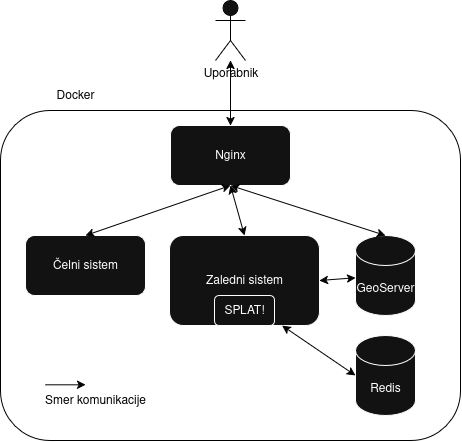
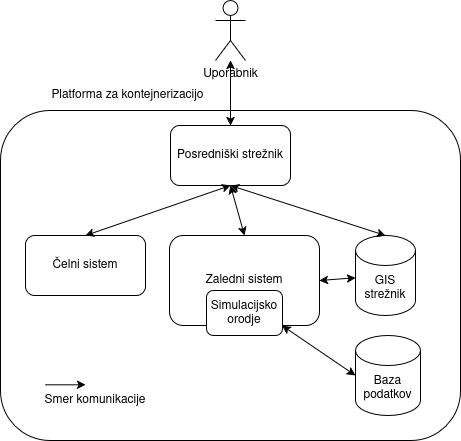
Fixed comments

diff --git a/ostali-deli/implementacija.tex b/ostali-deli/implementacija.tex
@@ -1,7 +1,9 @@
 \chapter{Implementacija}
-Po pregledu sorodnih del sem se odločil, da aplikacije ne bom razvijal iz nič, temveč bom izvedel vejitev (angl.~\textit{fork}) obstoječega projekta \texttt{Meshtastic Site Planner}~\cite{meshtasticSitePlanner}, ki omogoča simulacijo širjenja radijskega signala. Projekt je licenciran pod licenco GPL~3~\cite{gpl3}, ki dovoljuje uporabo, spreminjanje in distribucijo programske opreme, pod pogojem, da so tudi izpeljana dela objavljena pod isto licenco. Tak licenčni model zagotavlja odprtost izvorne kode ter omogoča, da so nadaljnje izboljšave dostopne širši skupnosti, ne le posameznemu razvijalcu.
+Implementacija rešitve je razdeljena na dva glavna sklopa: zaledni del in čelni del aplikacije. Zaledni del skrbi za izvajanje simulacij radijskega širjenja, obdelavo višinskih podatkov, upravljanje opravil ter komunikacijo s simulacijskim orodjem SPLAT!. Čelni del predstavlja uporabniški vmesnik, ki omogoča vnos parametrov, upravljanje simulacij in vizualizacijo rezultatov na interaktivnem zemljevidu.
 
-Namesto razvoja osnovne infrastrukture aplikacije sem se osredotočil na razširitve in nadgradnje, kot so integracija simulacijskega orodja SPLAT!, optimizacija prikaza rezultatov na interaktivnem zemljevidu ter dodajanje funkcionalnosti za iskanje optimalnih lokacij oddajnikov. S tem sem povečal učinkovitost razvoja in hkrati prispeval k obstoječemu odprtokodnemu ekosistemu.
+Jedro implementacije temelji na razširitvi obstoječe odprtokodne rešitve \texttt{Meshtastic Site Planner}~\cite{meshtasticSitePlanner}. Orodje omogoča simulacijo radijske pokritosti na podlagi orodja SPLAT! \cite{splatTool}, vendar ne podpira analize vidne linije ter iskanja optimalnih lokacij oddajnikov. Namesto razvoja celotnega sistema iz nič sem zato izvedel vejitev (angl.~\textit{fork}) projekta in ga nadgradil z dodatnimi funkcionalnostmi ter izboljšano arhitekturo.
+
+Projekt \texttt{Meshtastic Site Planner} je licenciran pod licenco GPL~3~\cite{gpl3}, ki dovoljuje uporabo, spreminjanje in distribucijo programske opreme, ob pogoju, da so tudi izpeljana dela objavljena pod isto licenco. Tak licenčni model zagotavlja odprtost izvorne kode ter omogoča, da so vse nadaljnje izboljšave dostopne širši skupnosti. Izbrani pristop je omogočil hitrejši razvoj ter osredotočenost na razširitve sistema, kot so izboljšan prikaz rezultatov, pohitritev sistema ter dodajanje metod za iskanje optimalnih lokacij oddajnikov. Za prikaz rezultatov simulacij radijske pokritosti je v sistem vključen strežnik GeoServer, ki omogoča postopno nalaganje prostorskih podatkov prek vmesnika WMS ter s tem zmanjša obremenitev odjemalca.
 
 \section{Zaledni del}
 Zaledni del je implementiran v programskem jeziku Python~\cite{python}, pri čemer je za gradnjo spletnega vmesnika uporabljeno ogrodje FastAPI~\cite{fastapi}. Ogrodje omogoča enostavno vzpostavitev HTTP povezav ter olajša dodajanje in vzdrževanje funkcionalnosti REST API, ki so ključne za komunikacijo med čelnim in zalednim delom aplikacije.
@@ -39,73 +41,16 @@ Orodje \texttt{srtm2sdf} omogoča pretvorbo podatkov SRTM3, medtem ko \texttt{sr
 
 V začetni fazi je zaledni del aplikacije samodejno izvajal pretvorbo iz \texttt{.hgt} v \texttt{.sdf}, kar je omogočalo izvajanje simulacij kjerkoli na svetu, vendar je postopek podaljšal čas obdelave in poslabšal uporabniško izkušnjo. Za optimizacijo sem uporabil vir \texttt{viewfinderpanoramas.org}~\cite{viewfinder}, ki ponuja že pripravljene in preverjene višinske ploščice v ustreznem formatu. Ploščice za območje Evrope sem prenesel in shranil na lasten strežnik, od koder jih aplikacija po potrebi samodejno pridobi in uporabi pri izvajanju simulacij. S tem se zmanjša zakasnitev ob začetku izračuna ter izboljša odzivnost sistema pri ponavljajočih se simulacijah.
 
-\subsection{Izračun potrebnih \texttt{.sdf} ploščic za vidno linijo}
-Ker izvorna aplikacija ni podpirala preverjanja vidne linije, sem implementiral funkcijo, ki izračuna, katere ploščice (angl.~\textit{tiles}) so potrebne za izvedbo simulacije.
-Za preverjanje vidne linije (LOS) med oddajnikom $(\varphi_\mathrm{tx}, \lambda_\mathrm{tx})$ in sprejemnikom $(\varphi_\mathrm{rx}, \lambda_\mathrm{rx})$ potrebujemo zgolj tiste SRTM ploščice, ki jih seka zveznica med točkama. Namesto prenosa večjega nabora ploščic za širše območje se uporabi algoritmičen sprehod po mreži ploščic, ki v času $O(n)$ (kjer je $n$ število prečkanih ploščic) deterministično izdela seznam natančno tistih celic, ki jih daljica prečka. S tem se zmanjša količina podatkov za prenos in skrajša priprava simulacije.
+\subsection{Določanje potrebnih višinskih ploščic za simulacije}
 
-\paragraph{Diskretizacija prostora.}
-Koordinate obravnavamo v stopinjah in prostor razdelimo na celice velikosti $1^\circ \times 1^\circ$. 
-Za parametrični opis daljice med končnima točkama vzamemo $(x(t), y(t)) = (x_0, y_0) + t\,(dx, dy)$, $t \in [0,1]$, kjer $x$ predstavlja geografsko dolžino in $y$ geografsko širino, $dx = x_1 - x_0$ in $dy = y_1 - y_0$.
+Za izvajanje simulacij SPLAT! potrebuje ustrezen nabor višinskih ploščic (\texttt{.sdf}), ki pokrivajo območje analize. V izvorni aplikaciji je bil postopek določanja potrebnih ploščic že implementiran za simulacijo radijske pokritosti, pri čemer se upošteva celoten okoliš oddajnika znotraj izbranega polmera.
 
-\paragraph{DDA sprehod po mreži.}
-Uporabimo varianto algoritma DDA (Digital Differential Analyzer) oz. mrežnega sledenja žarku:
-\begin{enumerate}
-  \item Začetno celico določimo z $\lfloor x_0 \rfloor, \lfloor y_0 \rfloor$, ciljno pa z $\lfloor x_1 \rfloor, \lfloor y_1 \rfloor$.
-  \item Izračunamo korake $\,\mathrm{stepX} \in \{-1,0,1\}$ in $\,\mathrm{stepY} \in \{-1,0,1\}$ glede na predznak $dx$ in $dy$.
-  \item Določimo \emph{tDelta} vrednosti, ki povedo, kolikšen porast parametra $t$ je potreben, da prečkamo eno celično mejo po $x$ oziroma $y$:
-  \[
-    t_{\Delta x} = 
-    \begin{cases}
-      |1/dx|, & dx \neq 0\\
-      \infty, & dx = 0
-    \end{cases}
-    \qquad
-    t_{\Delta y} = 
-    \begin{cases}
-      |1/dy|, & dy \neq 0\\
-      \infty, & dy = 0
-    \end{cases}
-  \]
-  \item Inicializiramo \emph{tMax} vrednosti, tj. parametrični čas do prve vertikalne oziroma horizontalne meje celice od izhodišča:
-  \[
-    t_{\max x} = 
-    \begin{cases}
-      \dfrac{(\lfloor x_0 \rfloor + 1 - x_0)}{dx}, & dx > 0\\[6pt]
-      \dfrac{(x_0 - \lfloor x_0 \rfloor)}{-dx}, & dx < 0\\[6pt]
-      \infty, & dx = 0
-    \end{cases}
-    \quad
-    t_{\max y} = 
-    \begin{cases}
-      \dfrac{(\lfloor y_0 \rfloor + 1 - y_0)}{dy}, & dy > 0\\[6pt]
-      \dfrac{(y_0 - \lfloor y_0 \rfloor)}{-dy}, & dy < 0\\[6pt]
-      \infty, & dy = 0
-    \end{cases}
-  \]
-  \item Iterativno napredujemo v smeri manjše od $t_{\max x}$ ali $t_{\max y}$ (prečkamo naslednjo mejo celice po $x$ ali $y$), s čimer posodobimo $(\mathrm{current\_x}, \mathrm{current\_y})$ ter $t_{\max x} \leftarrow t_{\max x} + t_{\Delta x}$ ali $t_{\max y} \leftarrow t_{\max y} + t_{\Delta y}$. 
-  Postopek ponavljamo, dokler ne dosežemo ciljne celice.
-\end{enumerate}
+Na podlagi izbranega polmera in geografske lokacije oddajnika se najprej določi omejitveni pravokotnik (angl.~\textit{bounding box}), ki zajema celotno območje simulacije. Nato se iz tega območja izpelje seznam višinskih ploščic, ki jih je treba prenesti in vključiti v izračun. Tak pristop omogoča, da se obdelujejo le nujno potrebni podatki, s čimer se zmanjša količina prenesenih višin\-skih podatkov in pospeši priprava simulacije.
 
-\subsection{Izračun potrebnih ploščic za simulacijo radijske pokritosti}
-Simulacija radijske pokritosti in s tem povezan izračun potrebnih ploščic sta bila že implementirana v izvorni aplikaciji.
+Ker izvorna aplikacija ni podpirala analize vidne linije (LOS), sem obstoječi mehanizem razširil tudi za ta primer. Pri simulaciji vidne linije je območje interesa omejeno zgolj na zveznico med oddajnikom in sprejemnikom, zato je mogoče nabor potrebnih ploščic dodatno zožiti. Namesto celotnega območja okoli oddajnika se določijo le tiste ploščice, ki jih prečka povezovalna linija med obema točkama.
 
-Postopek določanja potrebnih ploščic za simulacijo radijske pokritosti je zasnovan podobno kot pri izračunu ploščic za vidno linijo v prejšnjem poglavju.
-Namesto izračuna med dvema točkama pa se v tem primeru upošteva celoten okoliš oddajnika znotraj izbranega polmera $r$.
+S tem je bil obstoječi sistem za določanje višinskih ploščic ponovno uporabljen in prilagojen tudi za simulacijo vidne linije, kar omogoča učinkovitejšo rabo podatkov ter krajši čas priprave izračuna, zlasti pri točkovnih analizah na večjih razdaljah.
 
-\paragraph{Določitev območja pokritosti.}
-Najprej se glede na izbrani polmer in geografsko širino oddajnika izračuna kotni odmik $\Delta_{\deg}$:
-\[
-\Delta_{\deg} = \frac{r}{R_\oplus}\cdot \frac{180}{\pi},
-\]
-kjer je $R_\oplus = 6\,378\,137$~m približen polmer Zemlje.  
-Na tej osnovi se določi omejitveni pravokotnik (angl.~\textit{bounding box}) z mejami:
-\[
-\varphi_{\min} = \varphi_0 - \Delta_{\deg}, \quad
-\varphi_{\max} = \varphi_0 + \Delta_{\deg}, \quad
-\lambda_{\min} = \lambda_0 - \frac{\Delta_{\deg}}{\cos(\varphi_0)}, \quad
-\lambda_{\max} = \lambda_0 + \frac{\Delta_{\deg}}{\cos(\varphi_0)}.
-\]
-Omejitve so podane v stopinjah in določajo minimalni ter maksimalni razpon zemljepisne širine in dolžine, ki ju mora sistem obdelati.
 
 \subsection{Lokacija oddajnika / sprejemnika}
 SPLAT! za določitev geografskih lokacij oddajnika in sprejemnika uporablja \textbf{.qth} datoteke (angl.~\textit{QTH files}), 
@@ -197,6 +142,11 @@ Za razliko od originala moja verzija aplikacije pričakuje pridobitek antene v d
 \mathrm{dBm} = \mathrm{dBi} - 2.15
 \]
 
+Konstanta 2.15~dB predstavlja razliko med izotropno referenčno anteno in dipolno referenčno anteno. 
+Pridobitek antene je v praksi pogosto podan v enotah dBi, kjer je referenca idealna izotropna antena, ki enakomerno seva v vse smeri. 
+Model Longley--Rice in s tem orodje SPLAT! pa uporabljata efektivno sevalno moč (ERP), ki je definirana glede na idealni polvalovni dipol (dBd). 
+Razmerje med obema referencama je 2.15~dB, zato je za pretvorbo iz dBi v dBd potrebno odšteti 2.15~dB.
+
 Tako izračunana ERP vrednost se zapiše v zadnjo vrstico \texttt{.lrp} datoteke.
 
 \subsection{Barvna lestvica za prikaz moči signala}
@@ -242,7 +192,7 @@ Najpogosteje uporabljeni parametri so:
   \item \texttt{-kml} – izvoz v format, združljiv z orodjem Google Earth;
   \item \texttt{-gpsav} – ohrani začasne \texttt{gnuplot} datoteke;
   \item \texttt{-metric} – uporaba metričnega sistema enot;
-  \item \texttt{-olditm} – uporaba standardnega modela ITM (Longley–Rice).
+  \item \texttt{-olditm} – uporaba standardnega modela ITM (Longley–Rice) namesto model ITWOM;
 \end{itemize}
 
 \subsubsection*{Analiza vidne linije (LOS)}
@@ -312,7 +262,7 @@ Dodal pa sem, da se pripravljen GeoTIFF nato shrani v pomnilnik in preko funkcij
 
 Čelni sistem aplikacije je zasnovan kot osrednja točka interakcije med uporabnikom in simulacijskim jedrom. Njegova glavna naloga je omogočiti enostaven vnos parametrov, pregledno upravljanje simulacij ter intuitivno vizualizacijo rezultatov na interaktivnem zemljevidu.
 
-Arhitektura čelnega sistema je v osnovi ostala podobna izvorni rešitvi, vendar je bila nadgrajena z modernejšimi tehnologijami in izboljšanimi komponentami. Za oblikovanje uporabniškega vmesnika sem namesto ogrodja Bootstrap \cite{bootstrap} uporabil ogrodje Tailwind CSS \cite{tailwindcss}, ki omogoča bolj fleksibilno in konsistentno oblikovanje ter hitrejši razvoj brez potrebe po pisanju obsežnih lastnih slogovnih datotek.
+Arhitektura čelnega sistema je v osnovi ostala podobna izvorni rešitvi \textit{Meshtastic Site Planner} \cite{meshtasticSitePlanner}, vendar je bila nadgrajena z modernejšimi tehnologijami in izboljšanimi komponentami. Za oblikovanje uporabniškega vmesnika sem namesto ogrodja Bootstrap \cite{bootstrap} uporabil ogrodje Tailwind CSS \cite{tailwindcss}, ki omogoča bolj fleksibilno in konsistentno oblikovanje ter hitrejši razvoj brez potrebe po pisanju obsežnih lastnih slogovnih datotek.
 
 Pomembna sprememba je bila tudi zamenjava knjižnice Leaflet \cite{leafletjs} z Vue MapLibre GL \cite{vueMapLibreGL}. Nova rešitev omogoča boljšo zmogljivost pri prikazu večjih količin prostorskih podatkov, boljšo podporo za delo z vektorskimi sloji ter večjo prilagodljivost pri izrisu  elementov.
 
@@ -399,7 +349,7 @@ Rezultati simulacij so prikazani v pregledni tabeli, ki vsebuje kombinacije odda
 \subsection{Iskanje optimalnega centralnega oddajnika znotraj območja}
 Tretja funkcionalnost aplikacije, ki sem jo implementiral, je \texttt{Area Center Node Simulator}, ki omogoča iskanje optimalne lokacije oddajnika znotraj uporabniško definiranega geografskega območja. Funkcionalnost je namenjena uporabnikom, ki ne želijo vnaprej določiti vseh možnih lokacij oddajnikov, temveč želijo, da aplikacija sama identificira primerne kandidatske lokacije.
 
-Uporabnik na zemljevidu določi potencialne lokacije sprejemnikov in s poligonom označi območje iskanja lokacije oddajnika. Aplikacija nato s pomočjo podatkov OpenStreetMap~\cite{openstreetmap}, pridobljenih prek vmesnika Overpass API~\cite{overpass_api}, izlušči seznam vrhov znotraj izbranega območja. Te lokacije se uporabijo kot kandidatske točke za postavitev oddajnika.
+Uporabnik na zemljevidu določi potencialne lokacije sprejemnikov in s poligonom označi območje iskanja lokacije oddajnika. Aplikacija nato s pomočjo podatkov OpenStreetMap~\cite{openstreetmap}, pridobljenih prek vmesnika Overpass API~\cite{overpass_api}, izlušči seznam vrhov znotraj izbranega območja. V podatkovnem modelu OpenStreetMap so vrhovi označeni z oznako \texttt{natural=peak}. Te lokacije se uporabijo kot kandidatske točke za postavitev oddajnika.
 
 Za vsako izmed pridobljenih lokacij se izvede simulacija širjenja radijskega signala, na podlagi katere se izračuna pričakovana jakost signala za vse izbrane sprejemnike. Rezultati so prikazani v pregledni tabeli, ki vsebuje kombinacije oddajnikov in sprejemnikov ter pripadajoče vrednosti jakosti signala.
 

diff --git a/ostali-deli/eksperimentalna-evalvacija.tex b/ostali-deli/eksperimentalna-evalvacija.tex
@@ -1,5 +1,34 @@
 \chapter{Eksperimentalna evalvacija}
-Z eksperimentalno evalvacijo sem želel preverit natačnost razvite aplikacije in osovnega sistema SPLAT!, ki je uporabljena za simuliranje. Evalvacija sistema je bila izvedena na podlagi dejanskih terenskih meritev v realnem okolju. Pri tem sem uporabil obstoječo infrastrukturo omrežja Meshtastic, ki jo imam v upravljanju, kar je omogočilo izvajanje ponovljivih in nadzorovanih meritev v realnih pogojih delovanja sistema.
+Celostna evalvacija implementirane rešitve bi lahko zajemala več različnih
+vidikov, med drugim preverjanje izpolnjevanja vseh funkcijskih zahtev,
+določenih v fazi načrtovanja, ocenjevanje uporabniškega vmesnika in
+uporabniške izkušnje s pomočjo uporabniške študije ter analizo učinkovitosti
+izvedbe aplikacije, kot so odzivnost sistema, čas izvajanja simulacij in
+poraba sistemskih virov.
+
+Ker takšna celovita evalvacija presega obseg diplomskega dela, se to delo
+osredotoča na eksperimentalno evalvacijo natančnosti razvite aplikacije.
+Natančnost simulacij predstavlja temeljno lastnost orodja za radijsko
+načrtovanje, saj je brez zadostnega ujemanja med simuliranimi in dejanskimi
+razmerami smiselnost nadaljnjega razvoja in uporabe aplikacije omejena.
+
+Z eksperimentalno evalvacijo sem želel preveriti natančnost razvite aplikacije
+ter temeljnega propagacijskega sistema SPLAT!, ki se uporablja za simulacijo
+radijskega širjenja. Evalvacija je bila izvedena na podlagi dejanskih
+terenskih meritev v realnem okolju, pri čemer je bila uporabljena obstoječa
+infrastruktura omrežja Meshtastic. Takšen pristop je omogočil izvajanje
+ponovljivih in nadzorovanih meritev v realnih pogojih delovanja sistema.
+
+\paragraph{Meshtastic}
+Meshtastic \cite{meshtasticFirmware} je odprtokodna platforma za vzpostavljanje nizkoenergijskih
+brezžičnih omrežij na osnovi tehnologije LoRa, ki omogoča decentralizirano
+komunikacijo med večjim številom vozlišč v obliki mrežnega omrežja
+(ang. \textit{mesh network}). Vsako vozlišče lahko deluje kot oddajnik,
+sprejemnik in posrednik sporočil, kar omogoča razširjanje dosega omrežja brez
+potrebe po centralni infrastrukturi. Sistem omogoča dostop večjemu številu
+odjemalcev ter izmenjavo telemetrijskih in lokacijskih podatkov, hkrati pa
+podpira integracijo z zunanjimi sistemi, na primer prek protokola MQTT, kar
+omogoča centralizirano zbiranje in analizo podatkov iz omrežja.
 
 \section{Strojna in programska oprema}
 Meritve so bile izvedene z uporabo odprtokodne programske opreme Meshtastic \cite{meshtasticFirmware}, ki omogoča pošiljanje lokacijskih paketov ter njihovo posredovanje prek protokola MQTT. Sprejeti podatki so se samodejno shranjevali v podatkovno bazo skupaj s pripadajočimi metapodatki, kot so čas prejema, identifikacija oddajnika in sprejemnika ter izmerjena jakost signala (RSSI).
@@ -12,7 +41,7 @@ Uporabljena strojna oprema temelji na cenovno dostopnih mikrokontrolerjih ESP32 
     \item Mobilno vozlišče \texttt{!42e27414}, ki temelji na platformi \href{https://lilygo.cc/products/t-echo-lilygo}{\texttt{LilyGo T-Echo}}, opremljeni z anteno \href{https://www.alfa.com.tw/products/aoa-868-5acm?variant=36473962922056}{\texttt{Alfa 868~MHz 5~dBi}}.
 \end{itemize}
 
-Vsa oprema deluje na ISM frekvenčem območju 868~MHz, z močjo 27~dBm. Lokacijski paketi so bili oddajani na 15~s. Vozil sem z povprečno hitrostjo 50~kmh.
+Vsa oprema deluje na ISM frekvenčem območju 868~MHz, z močjo 27~dBm. Lokacijski paketi so bili oddajani na 15~s. Vozil sem z povprečno hitrostjo 50~km/h.
 
 Pri izvajanju simulacij je bil uporabljen propagacijski model Irregular Terrain Model (ITM). Model je bil konfiguriran z uporabo parametra delež lokacijskih situacij (ang. \textit{situation fraction}) in parametra delež časa (ang. \textit{time fraction}), pri čemer sta bila oba nastavljena na vrednost 95. Takšna nastavitev pomeni, da model napoveduje radijske razmere, ki so izpolnjene v 95~\% prostorskih situacij in v 95~\% časa, kar predstavlja konzervativen pristop k ocenjevanju radijske pokritosti.
 

diff --git a/ostali-deli/arhitektura-resitve.tex b/ostali-deli/arhitektura-resitve.tex
@@ -47,17 +47,17 @@ Zaledni del je implementiran v programskem jeziku Python \cite{python} z uporabo
 
 Pri zahtevnejših opravilih sistem deluje asinhrono: vsaki zahtevi dodeli enoličen identifikator, sproži simulacijo v ozadju in njen status ter vmesne rezultate začasno shrani v podatkovni strežnik Redis. Čelni sistem lahko nato periodično preverja stanje naloge in rezultate prevzame, ko so ti na voljo.
 
-\paragraph{Redis}
-Redis \cite{redis} v arhitekturi deluje kot pomnilniški posrednik med čelnim in zalednim delom aplikacije. V njem se hranijo statusi opravil in končni rezultati simulacij. Zaradi arhitekture ključ--vrednost in delovanja neposredno v pomnilniku omogoča zelo hitro shranjevanje in pridobivanje podatkov, kar bistveno prispeva k odzivnosti sistema.
+\paragraph{Baza podatkov}
+Baza podatkov v arhitekturi deluje kot pomnilniški posrednik med čelnim in zalednim delom aplikacije. V njem se hranijo statusi opravil in končni rezultati simulacij. Aplikacija uporablja Redis \cite{redis}, ki zaradi arhitekture ključ--vrednost in delovanja neposredno v pomnilniku omogoča zelo hitro shranjevanje in pridobivanje podatkov, kar prispeva k odzivnosti sistema.
 
-\paragraph{SPLAT!}
+\paragraph{Simulacijsko orodje}
 Jedro simulacij predstavlja terminalsko orodje SPLAT! \cite{splatTool}, ki na podlagi vhodnih parametrov, kot so moč oddajnika, višina antene, frekvenca delovanja, topografija terena in drugi fizikalni dejavniki, izračuna širjenje radijskega signala. Rezultati simulacij so lahko v obliki rastrskih podatkov, profilov signalne poti ali analiz vidne linije med posameznimi točkami. Orodje uporablja modele radijskega prenosa, ki upoštevajo vpliv zakritosti in Fresnelovih con, kar omogoča realistične simulacije in napoved pokritosti obravnavanega območja.
 
-\paragraph{GeoServer}
+\paragraph{GIS strežnik}
 Rezultati, ki jih ustvari simulacijsko jedro, se nadalje obdelajo in objavijo prek GIS-strežnika GeoServer \cite{geoserver}. Izhodni podatki so pretvorjeni v format GeoTIFF in objavljeni kot spletne storitve, kot je na primer WMS. Čelni sistem te storitve nalaga dinamično in jih prikazuje kot sloje na interaktivnem zemljevidu, pri čemer se prenašajo le tisti deli podatkov, ki jih uporabnik dejansko potrebuje. Tak pristop omogoča učinkovito delo z velikimi količinami prostorskih podatkov ter zagotavlja skalabilno in zmogljivo vizualizacijo simulacij.
 
-\paragraph{Nginx}
+\paragraph{Posredniški strežnik}
 Za usmerjanje prometa med posameznimi komponentami sistema skrbi spletni strežnik Nginx \cite{nginx}, ki deluje kot povratni posrednik (angl. \emph{reverse proxy}). Poleg strežbe statičnih datotek čelnega sistema omogoča tudi obdelavo HTTPS povezav ter optimizacijo zmogljivosti z uravnavanjem obremenitve. S tem zagotavlja stabilno, varno in učinkovito komunikacijo med uporabniki in aplikacijo.
 
-\paragraph{Docker}
-Celotna aplikacija je zapakirana z uporabo tehnologije Docker, ki omogoča zagon posameznih komponent v izoliranih in prenosljivih kontejnerjih. Vsaka storitev, kot so zaledni sistem, GeoServer in Redis, deluje v lastnem kontejnerju skupaj z vsemi potrebnimi odvisnostmi. Docker je bil uporabljen tako v fazi razvoja in testiranja kot tudi v produkcijskem okolju, kar zagotavlja konsistentnost delovanja, zmanjšuje možnost napak pri namestitvi ter omogoča enostavno posodabljanje in uvajanje novih verzij sistema.
+\paragraph{Platforma za kontejnerizacijo}
+Celotna aplikacija je zapakirana z uporabo tehnologije Docker \cite{docker}, ki omogoča zagon posameznih komponent v izoliranih in prenosljivih kontejnerjih. Vsaka storitev, kot so zaledni sistem, GeoServer in Redis, deluje v lastnem kontejnerju skupaj z vsemi potrebnimi odvisnostmi. Docker je bil uporabljen tako v fazi razvoja in testiranja kot tudi v produkcijskem okolju, kar zagotavlja konsistentnost delovanja, zmanjšuje možnost napak pri namestitvi ter omogoča enostavno posodabljanje in uvajanje novih verzij sistema.

diff --git a/diploma.tex b/diploma.tex
@@ -393,7 +393,7 @@ Zahvaljujem se mentorju izr. prof. dr. Veljku Pejoviću za strokovno vodstvo, po
 \bigskip
 
 %\noindent\textbf{Abstract:} 
-\noindent In my thesis, I address the lack of high-quality, open-source tools for planning LoRa networks that would allow for simple coverage simulation and terrain analysis. As a solution, I designed and developed a web application that integrates the open-source tool SPLAT with a modern user interface (Vue.js \cite{vuejs}) and a backend system (Python). The application enables various types of signal simulations, selection of optimal device locations, and line-of-sight verification between points. I validated the tool with field measurements, which confirm a high correlation with the predictions. The contribution of the thesis is a functional, open-source, user-friendly, and extensible tool for radio planning of LoRa networks.
+\noindent This thesis addresses the lack of high-quality, open-source tools for planning LoRa networks that would allow for simple coverage simulation and terrain analysis. As a solution, here we design and develop a Web application that integrates the open-source tool SPLAT with a modern user interface (Vue.js \cite{vuejs}) and a backend system (Python). The application enables various types of signal simulations, selection of optimal device locations, and line-of-sight verification between points. The tool is validated with field measurements, which confirm a high correlation with the predictions. The contribution of the thesis is a functional, open-source, user-friendly, and extensible tool for radio planning of LoRa networks.
 \bigskip
 
 \noindent\textbf{Keywords:} \tkeywordsEn.

diff --git a/ostali-deli/sorodna-dela.tex b/ostali-deli/sorodna-dela.tex
@@ -59,4 +59,4 @@ Glavna prednost orodja je njegova tesna integracija z GIS okoljem, ki omogoča n
 \label{pic:raplat}
 \end{figure}
 
-Pregled sorodnih del pokaže, da obstoječa orodja praviloma ponujajo bodisi simulacijo pokritosti bodisi analizo vidne linije, redko pa oboje v integrirani in razširljivi obliki. Poleg tega večina rešitev ne omogoča enostavne povezave z realnimi meritvami ali prilagoditve za specifične potrebe LoRa omrežij. Predstavljeno delo te omejitve naslavlja z združitvijo simulacij, vizualizacije in eksperimentalne evalvacije v enem odprtokodnem orodju.
+Pregled sorodnih del pokaže, da obstoječa orodja praviloma ponujajo bodisi simulacijo pokritosti bodisi analizo vidne linije, redko pa oboje v integrirani in razširljivi obliki. Predstavljeno delo te omejitve naslavlja z združitvijo simulacij, vizualizacije in eksperimentalne evalvacije v enem odprtokodnem orodju.
